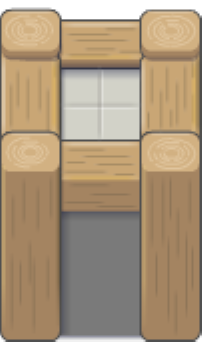
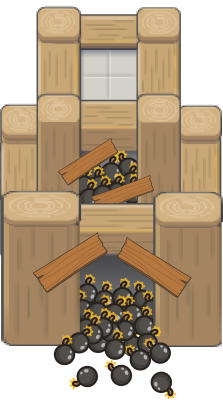
added logs and platform

diff --git a/sketch.js b/sketch.js
@@ -5,6 +5,7 @@ var gif_zomb;
 //Player [0, 1, 2, 3] [Blinking, Dying, Idle, Throwing]
 var gif_player;
 var platform;
+var log;
 var grass;
 var bomb_img;
 var deltaTimeInSeconds;
@@ -63,13 +64,13 @@ function windowResized() {
 function preload() {
   grass = loadImage("assets/Game Objects/grass.png");
   platform = loadImage("assets/Game Objects/Platform/platform.png");
+  log=loadImage("assets/Game Objects/Platform/Log.png")
   //Bomb
   bomb_img = [];
   bomb_img[0] = loadImage("assets/Game Objects/Bomb.png");
   bomb_img[1] = loadImage("assets/Game Objects/Projectile.png");
   gif_zomb = [];
   gif_player = [];
-
   //Player [0, 1, 2, 3] [Blinking, Dying, Idle, Throwing]
   gif_player[0] = loadAnimatedSprite(
     17,

diff --git a/src/player.js b/src/player.js
@@ -28,6 +28,7 @@ class Player {
   }
   draw() {
     image(platform, this.xPosition, this.yPosition);
+    image(log, this.xPosition+windowWidth*0.15, this.yPosition-windowHeight*0.33);
     if (this.isAlive) {
       rectMode(CORNER);
       rect(this.healthPositionX - 1, this.healthPositionY - 1, 102, 7);
@@ -41,6 +42,7 @@ class Player {
       );
     }
   }
+
   update() {
     // this.skin[0].update();
   }
